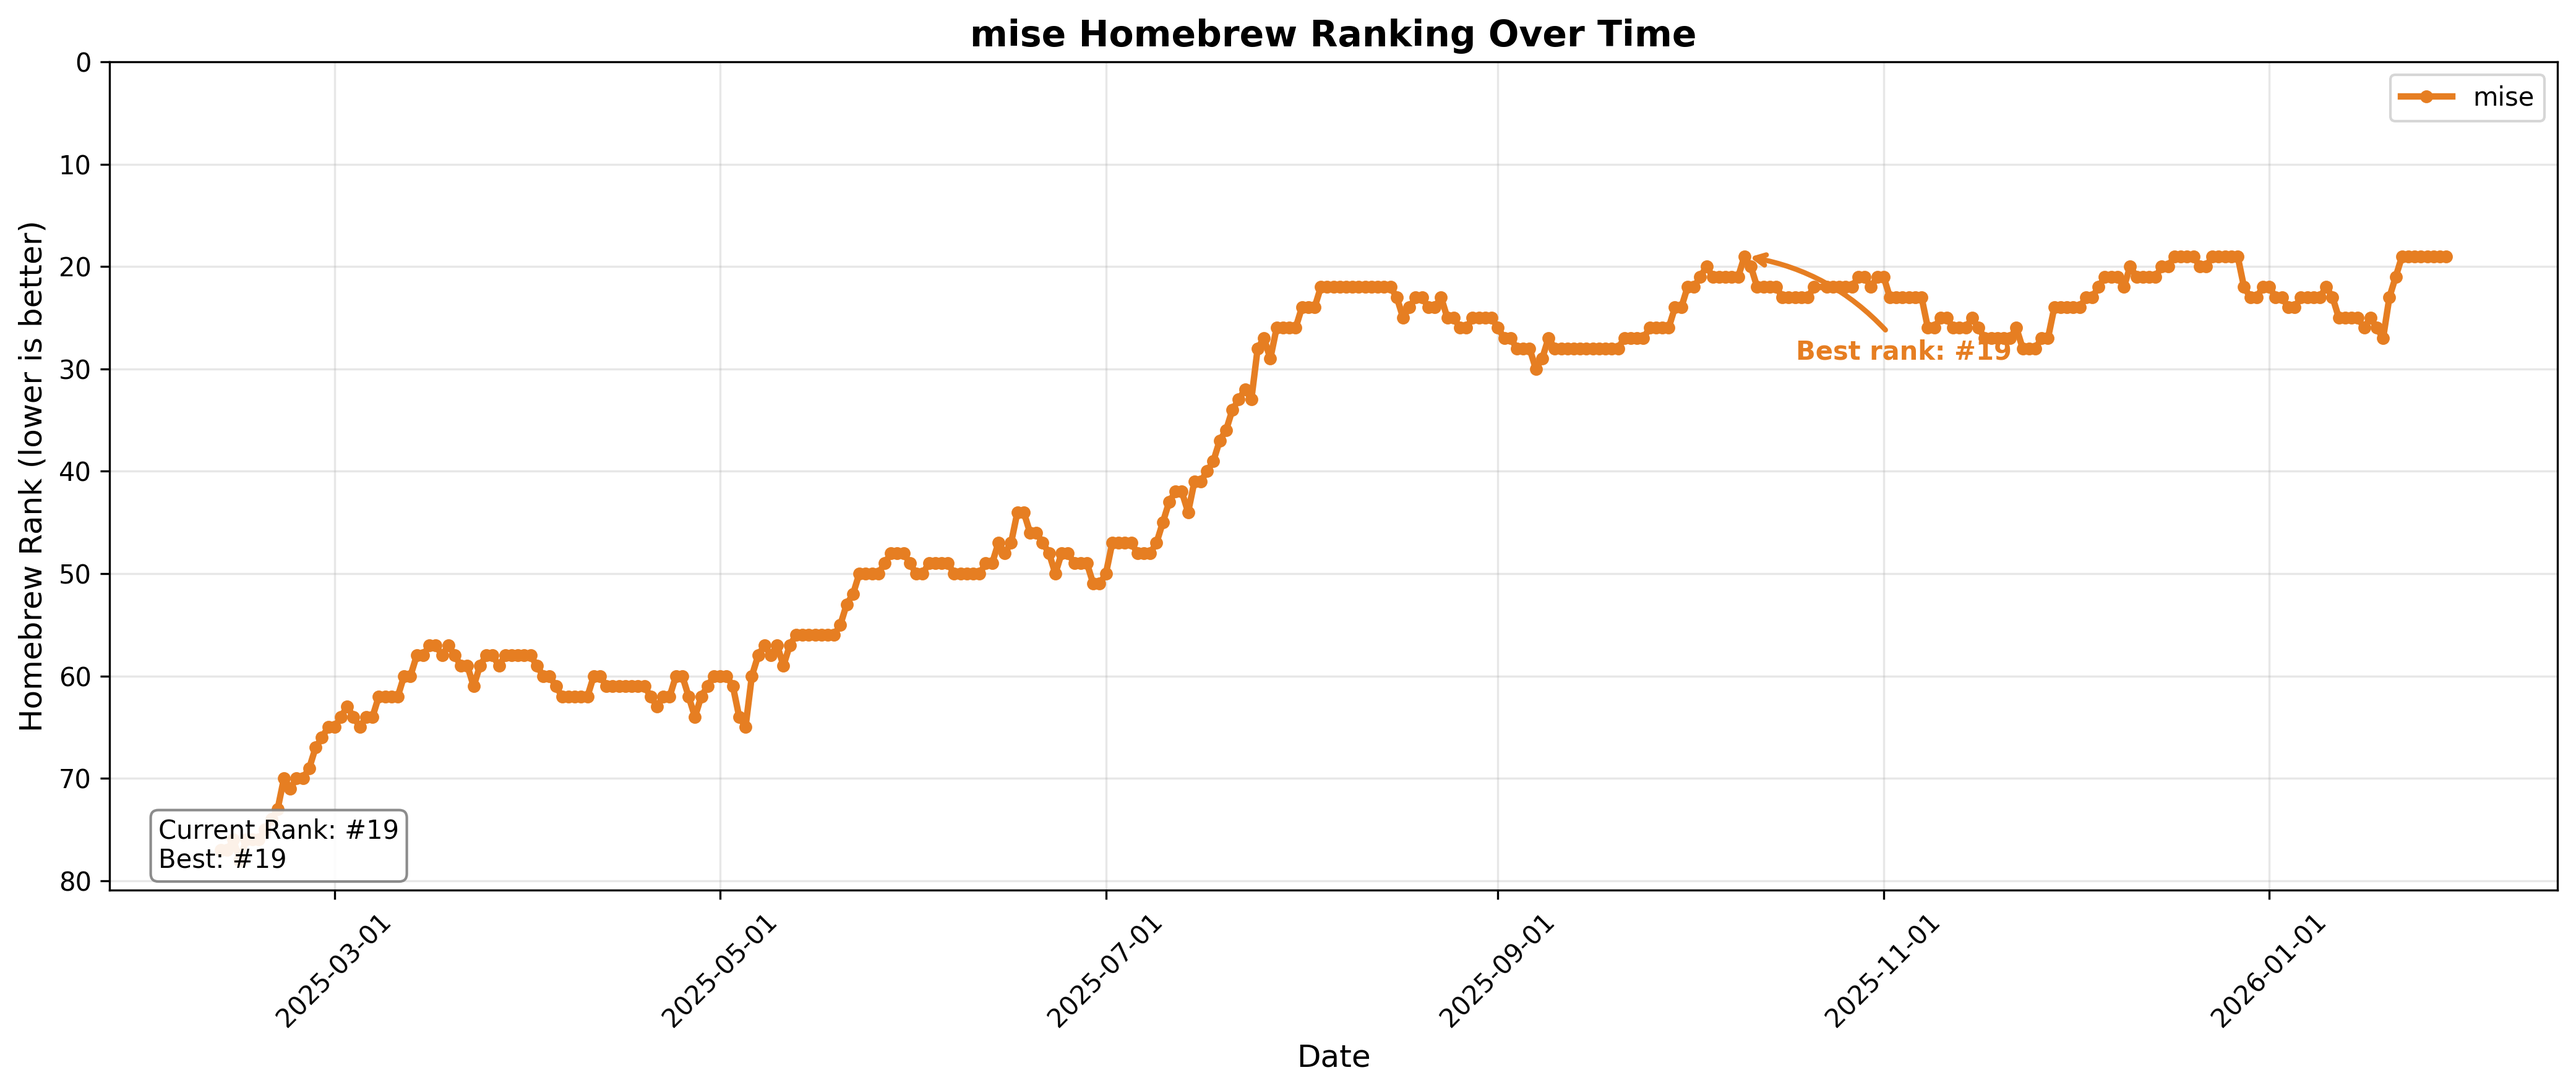
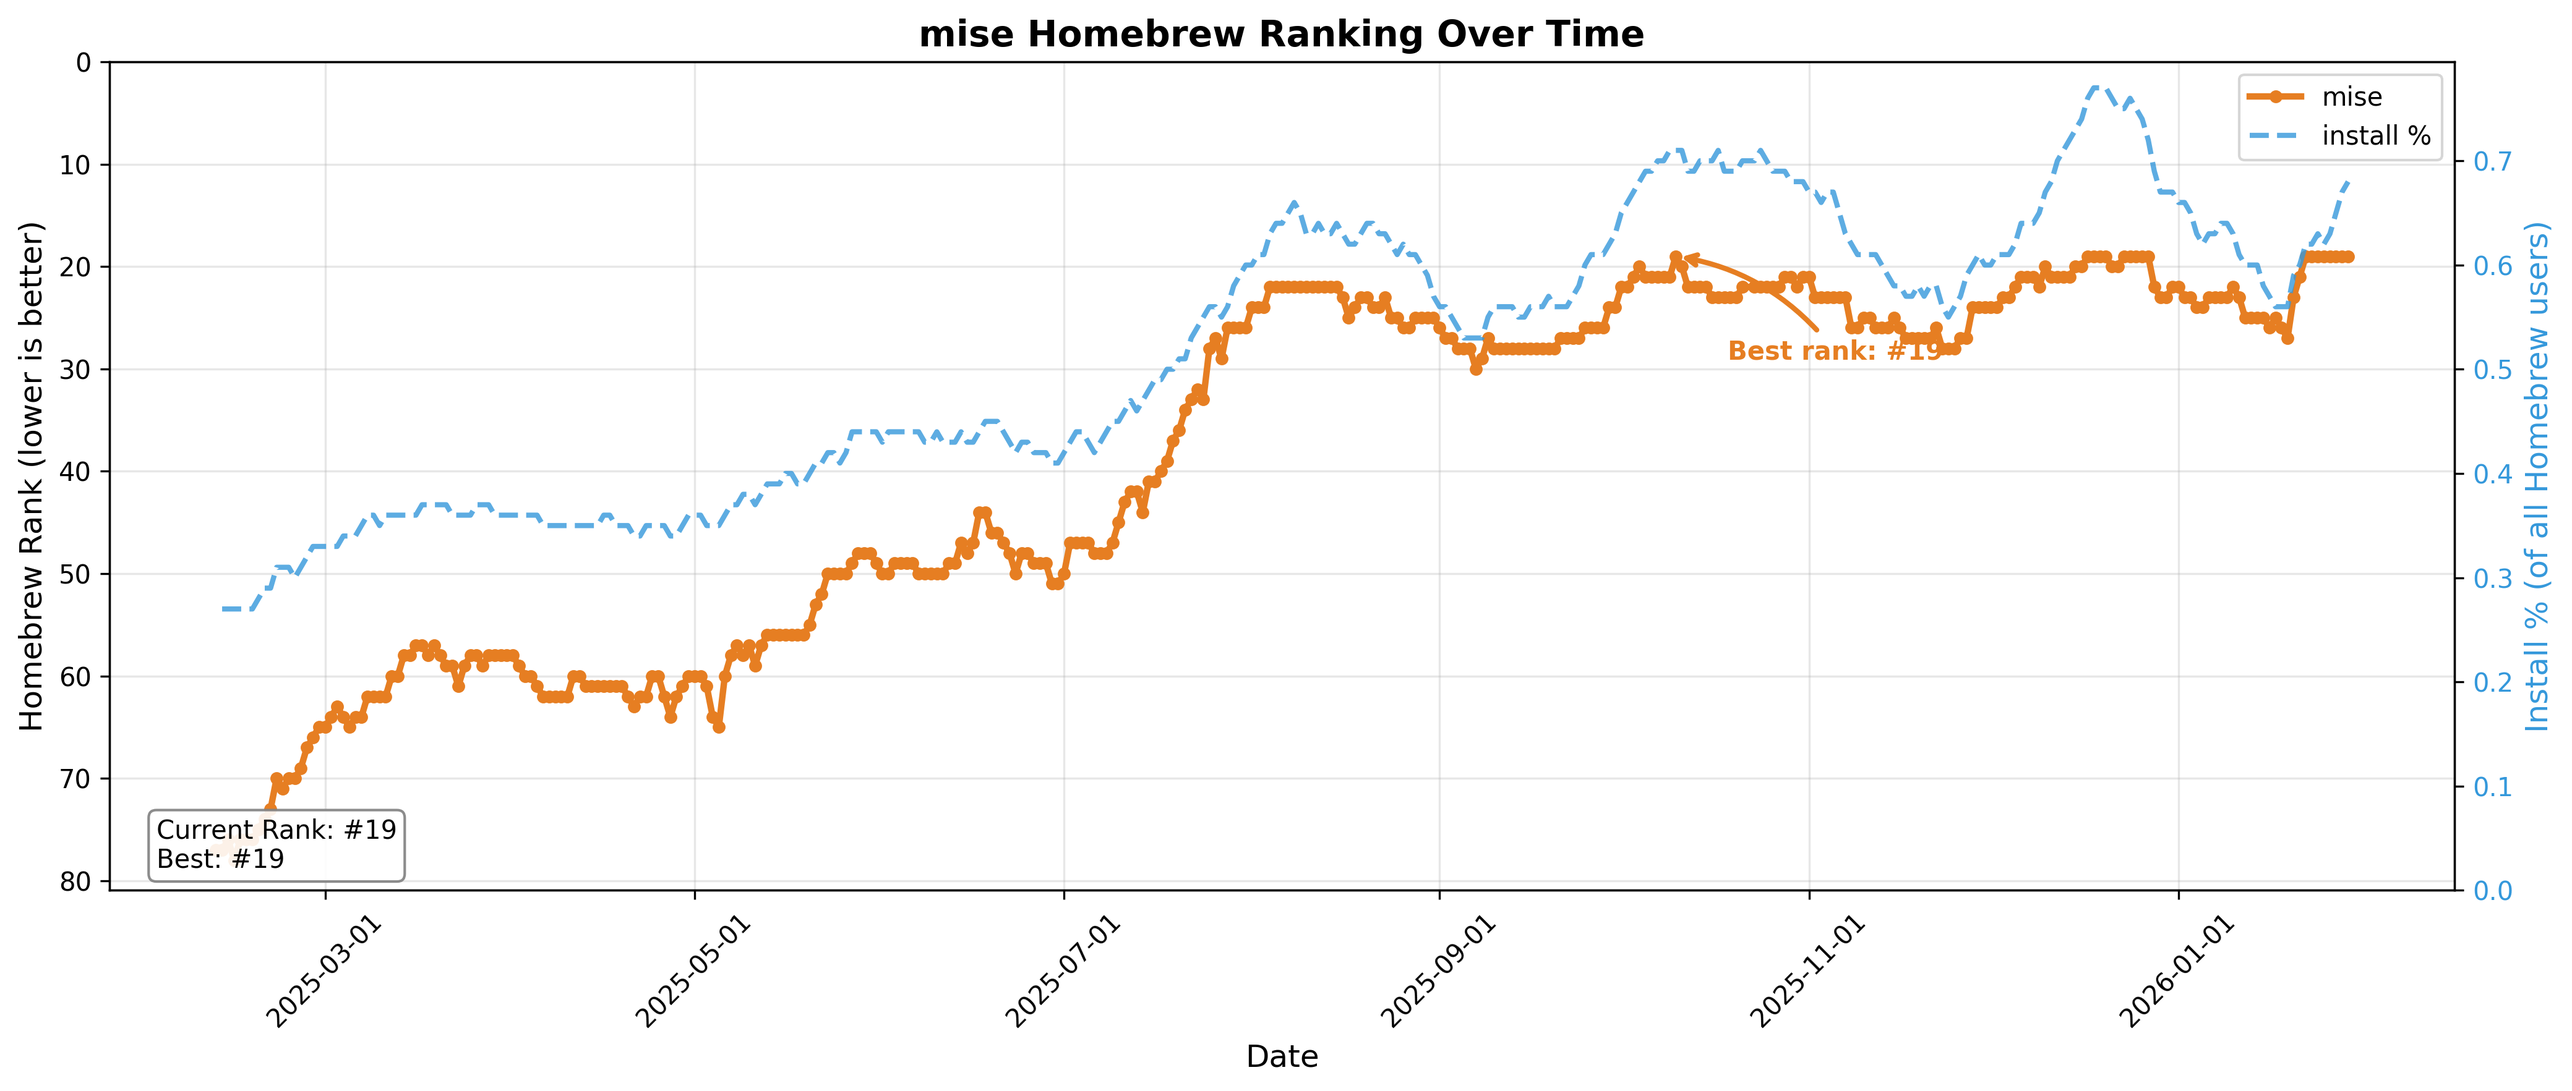
add install % line to homebrew ranking chart

diff --git a/mise-tasks/plot-mise-brew-rank.py b/mise-tasks/plot-mise-brew-rank.py
@@ -40,10 +40,33 @@ ax.set_ylim(max(current_ylim), 0)
 ax.set_ylabel('Homebrew Rank (lower is better)', fontsize=12)
 ax.set_xlabel('Date', fontsize=12)
 ax.set_title('mise Homebrew Ranking Over Time', fontsize=14, fontweight='bold')
-ax.legend(loc='upper right', fontsize=10)
 ax.grid(True, alpha=0.3)
 ax.xaxis.set_major_formatter(DateFormatter('%Y-%m-%d'))
 plt.xticks(rotation=45)
+
+# Plot brew_pct on secondary y-axis
+df_pct = df[df['brew_pct'].notna()]
+if len(df_pct) > 0:
+    ax2 = ax.twinx()
+    ax2.plot(
+        df_pct['date'],
+        df_pct['brew_pct'],
+        color='#3498DB',
+        label='install %',
+        linewidth=2,
+        linestyle='--',
+        alpha=0.8
+    )
+    ax2.set_ylabel('Install % (of all Homebrew users)', fontsize=12, color='#3498DB')
+    ax2.tick_params(axis='y', labelcolor='#3498DB')
+    ax2.set_ylim(0, None)
+
+    # Combine legends from both axes
+    lines1, labels1 = ax.get_legend_handles_labels()
+    lines2, labels2 = ax2.get_legend_handles_labels()
+    ax.legend(lines1 + lines2, labels1 + labels2, loc='upper right', fontsize=10)
+else:
+    ax.legend(loc='upper right', fontsize=10)
 
 # Add annotation for current rank
 current_rank = df['brew_rank'].iloc[-1]
